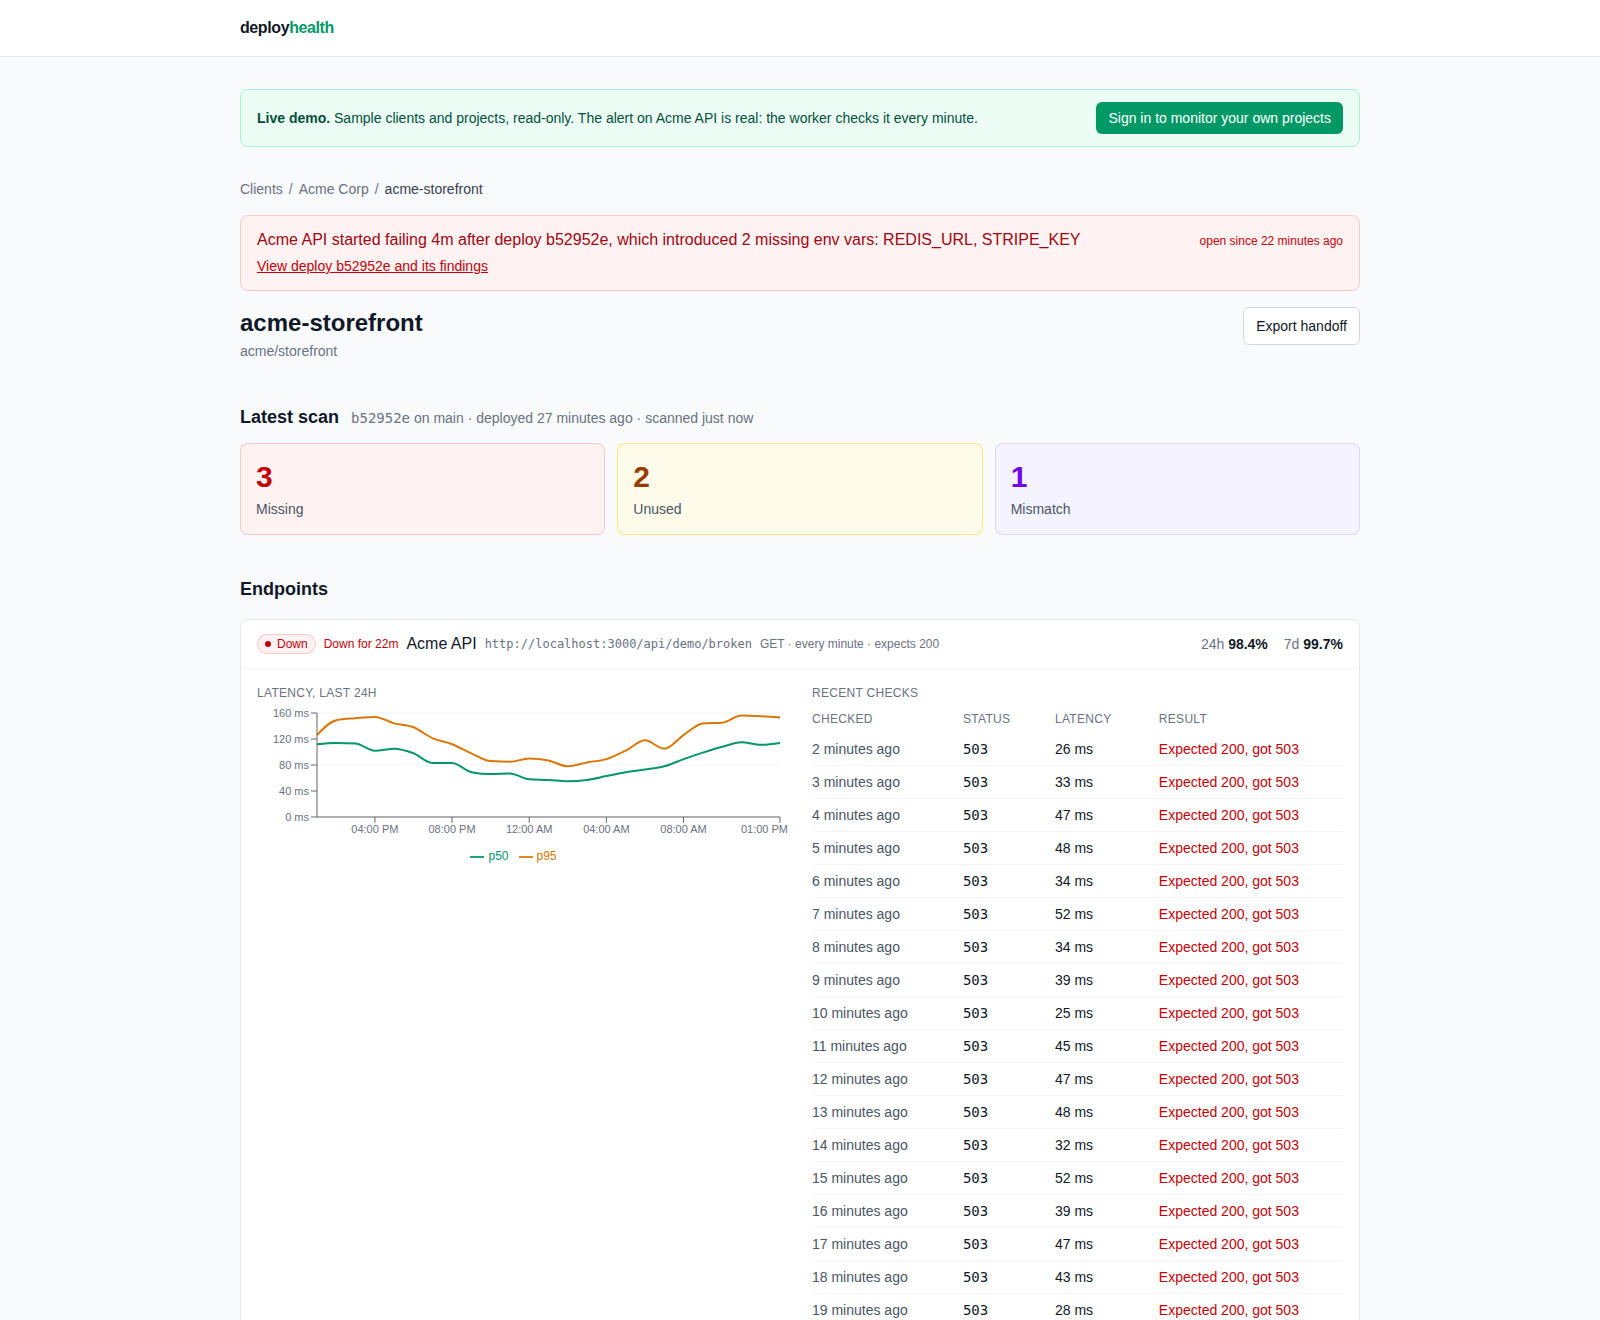
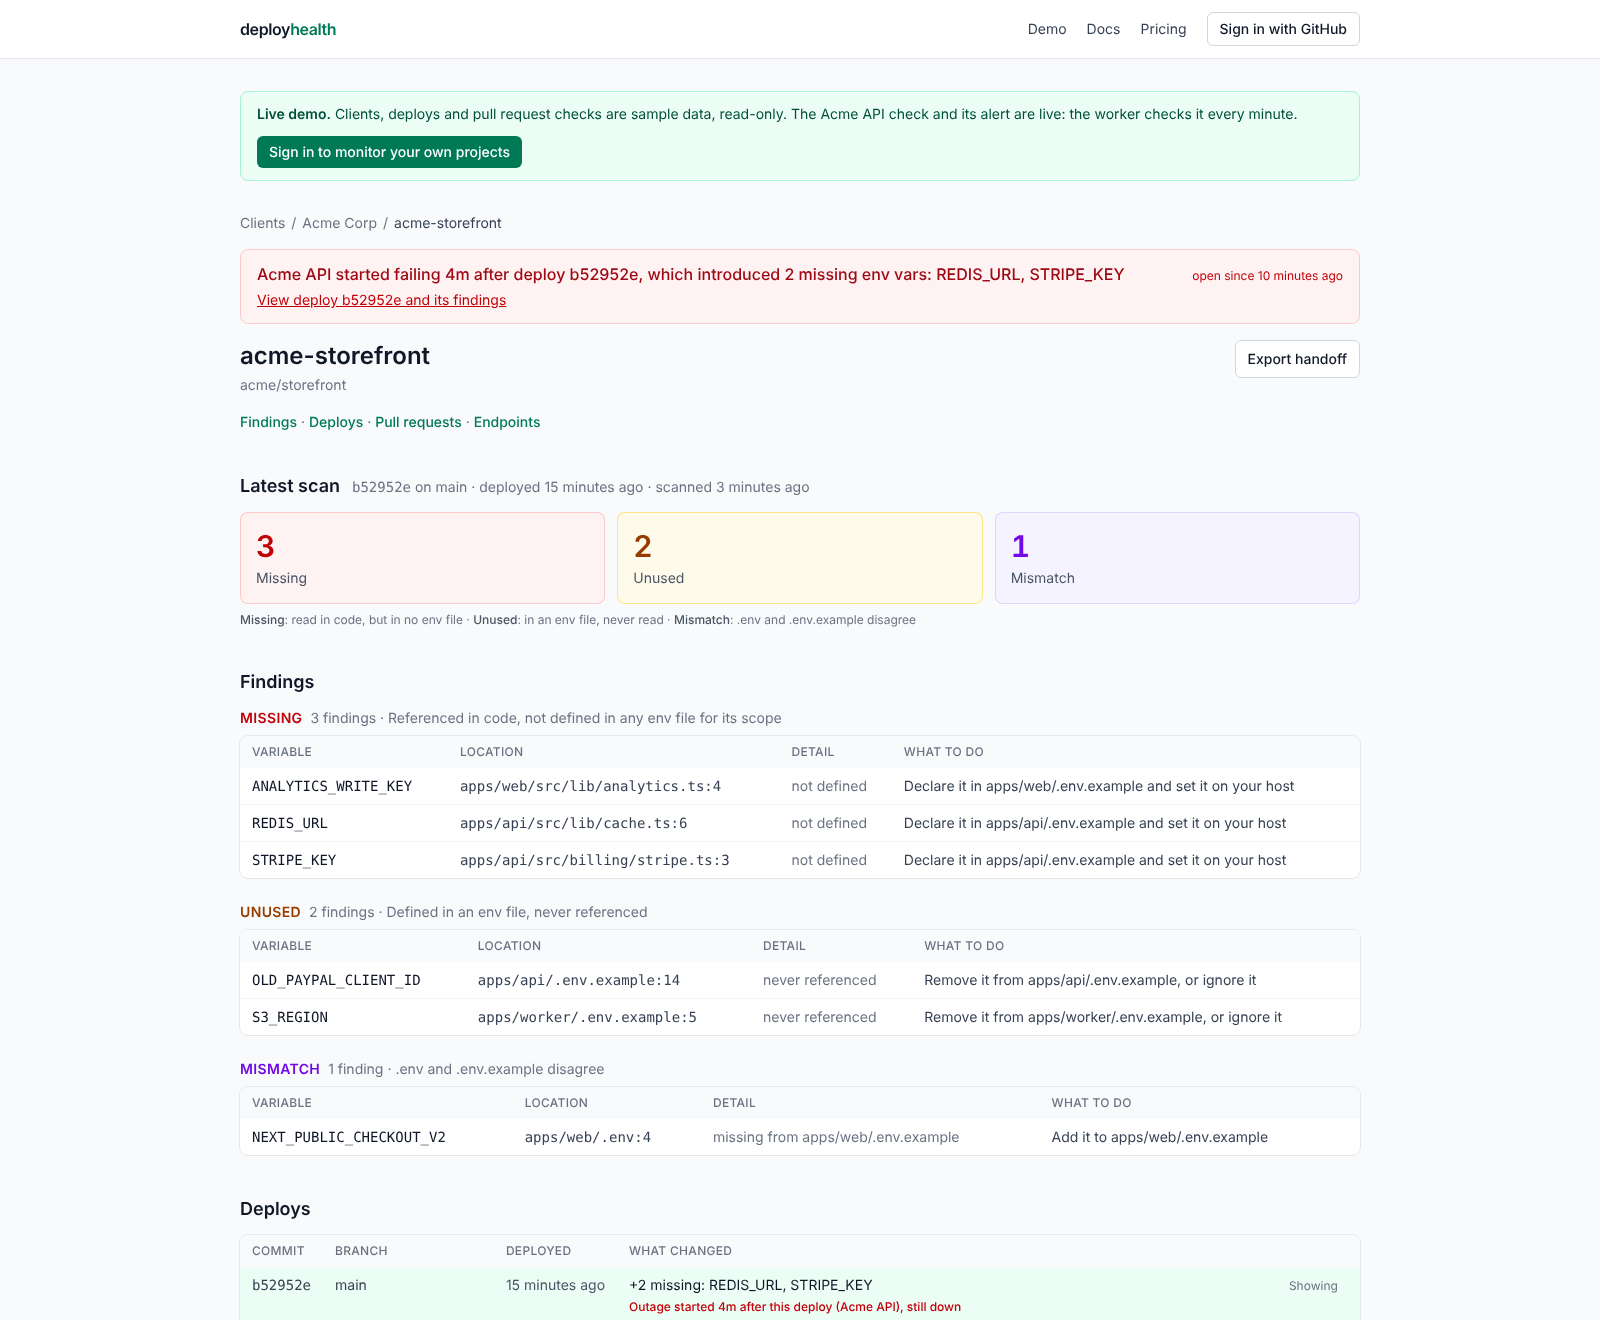
docs: retake the project and report screenshots from the Phase 7.2 layout
From next build + next start with only the seeded demo, 1600 px wide at scale 1 and the same
heights as before. The alt texts say what they now show.

diff --git a/README.md b/README.md
@@ -84,7 +84,7 @@ Endpoints get a status, "Down for 22m", 24-hour and 7-day uptime, a p50/p95 late
 the last 20 checks. Alerts open after two failed checks in a row, link the deploy that preceded
 them, and can post to Slack or Discord.
 
-![A project with an open alert linked to its deploy, endpoint uptime, latency and recent checks](docs/screenshots/project.png)
+![A project: the open alert linked to its deploy, the latest scan's counts, findings with what to do about each, and the deploy the outage followed](docs/screenshots/project.png)
 
 ### Handoff export
 
@@ -108,7 +108,7 @@ every deploy with the config issues it introduced or fixed, the alerts as sent, 
 now. **Share report** creates a signed link your client can open without an account, valid for 90
 days.
 
-![A monthly report: the summary line, key numbers, uptime, the incident, and deploys with what each introduced and fixed](docs/screenshots/report.png)
+![A monthly report: who prepared it, a plain-language summary, key numbers, uptime, the incident, and under Technical details the deploys with what each introduced and fixed](docs/screenshots/report.png)
 
 ## Setup: two options
 
